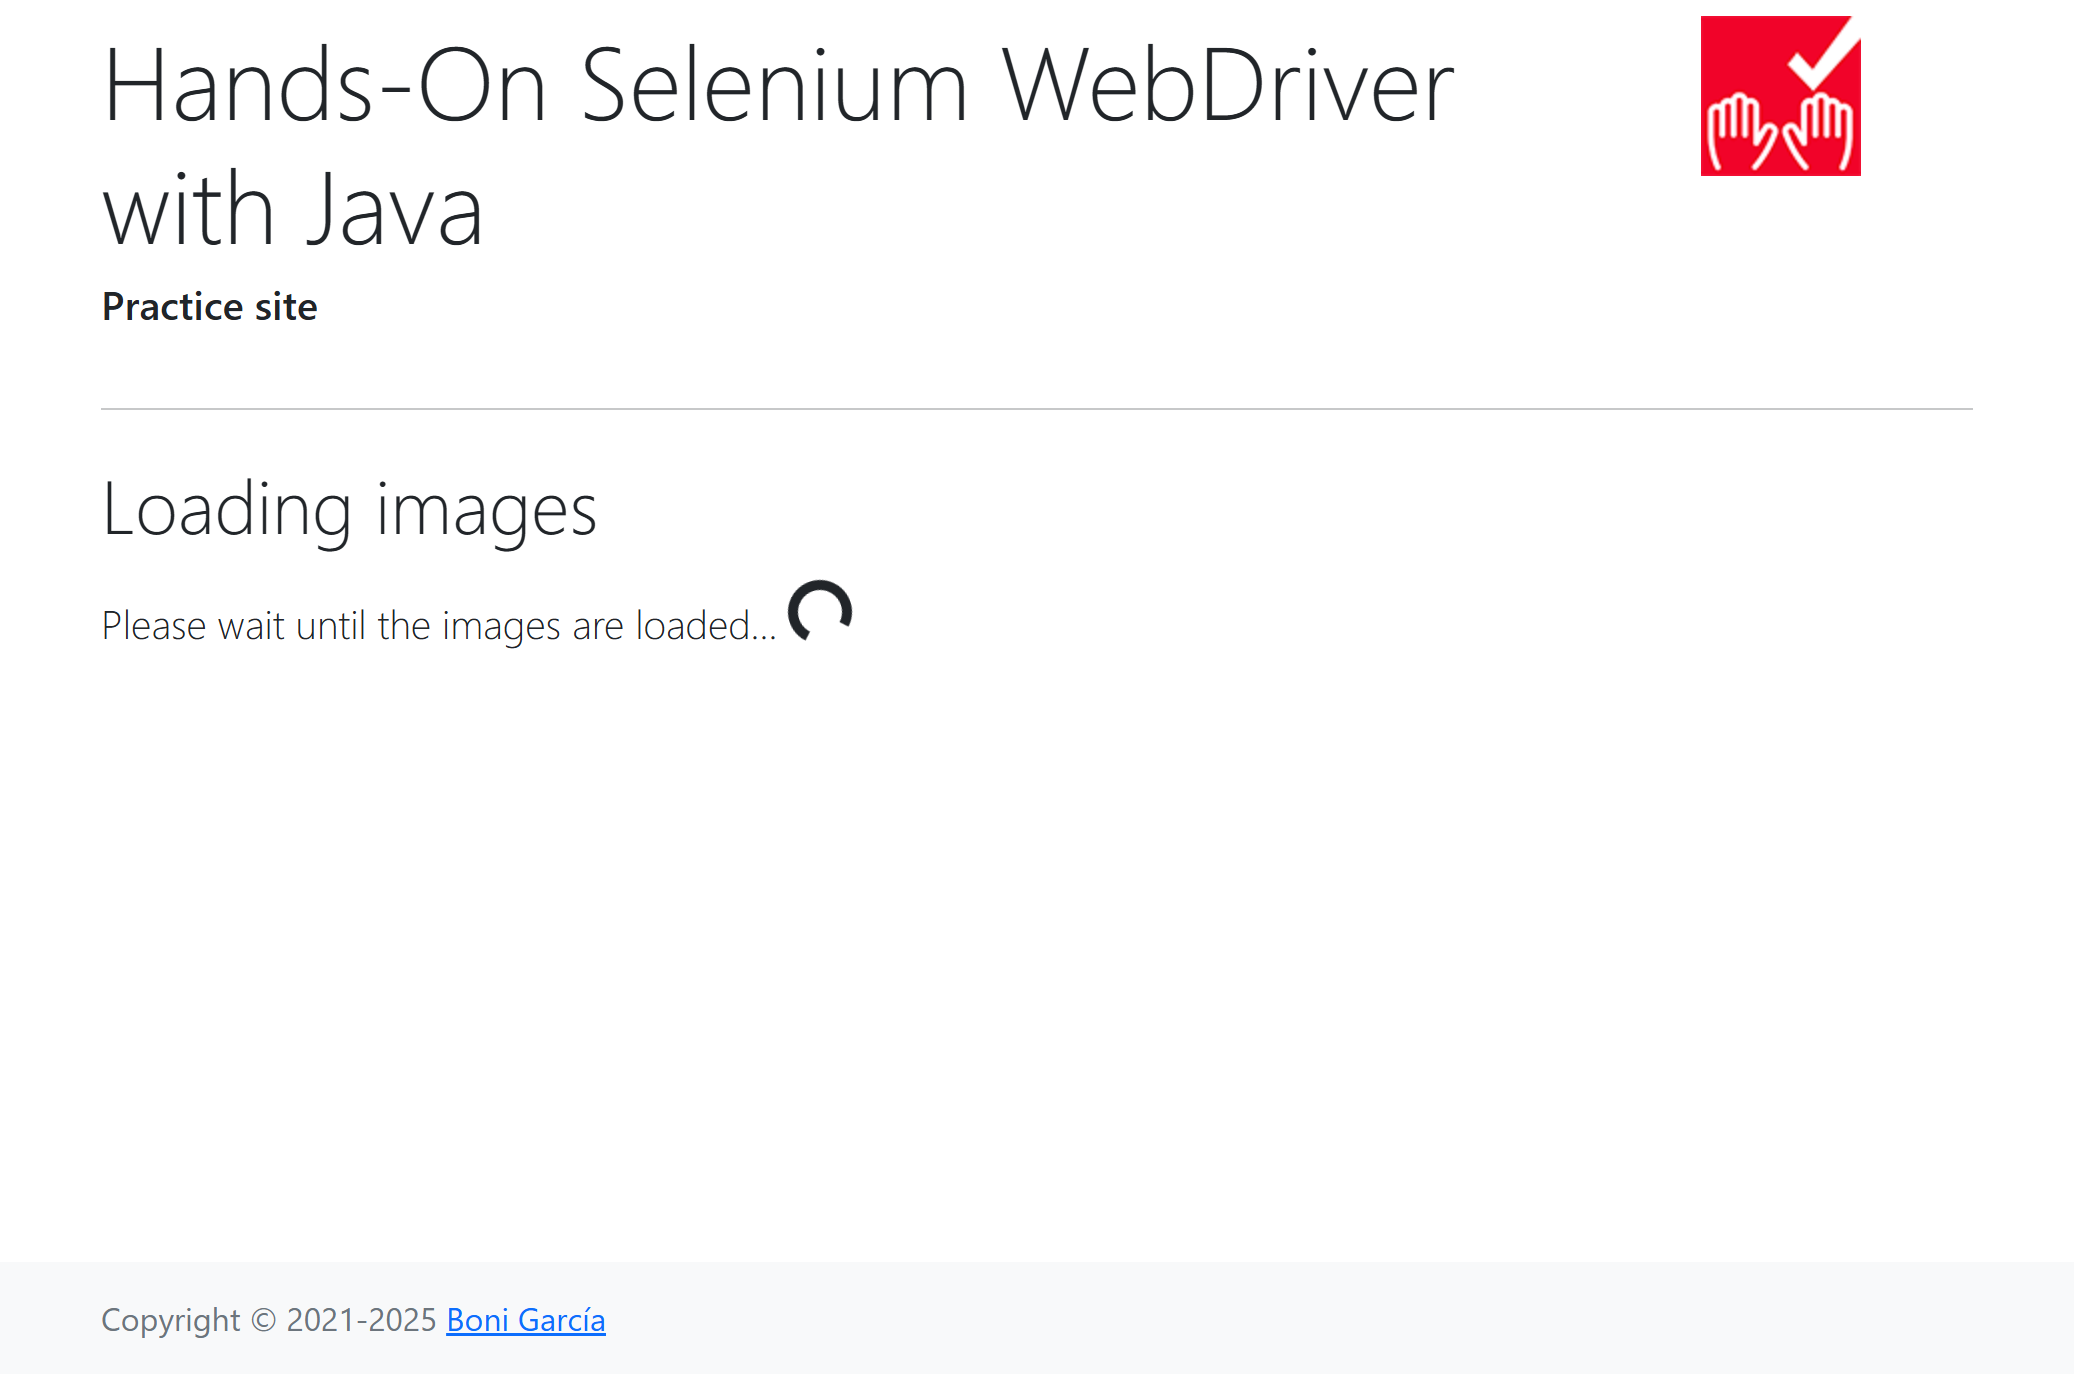
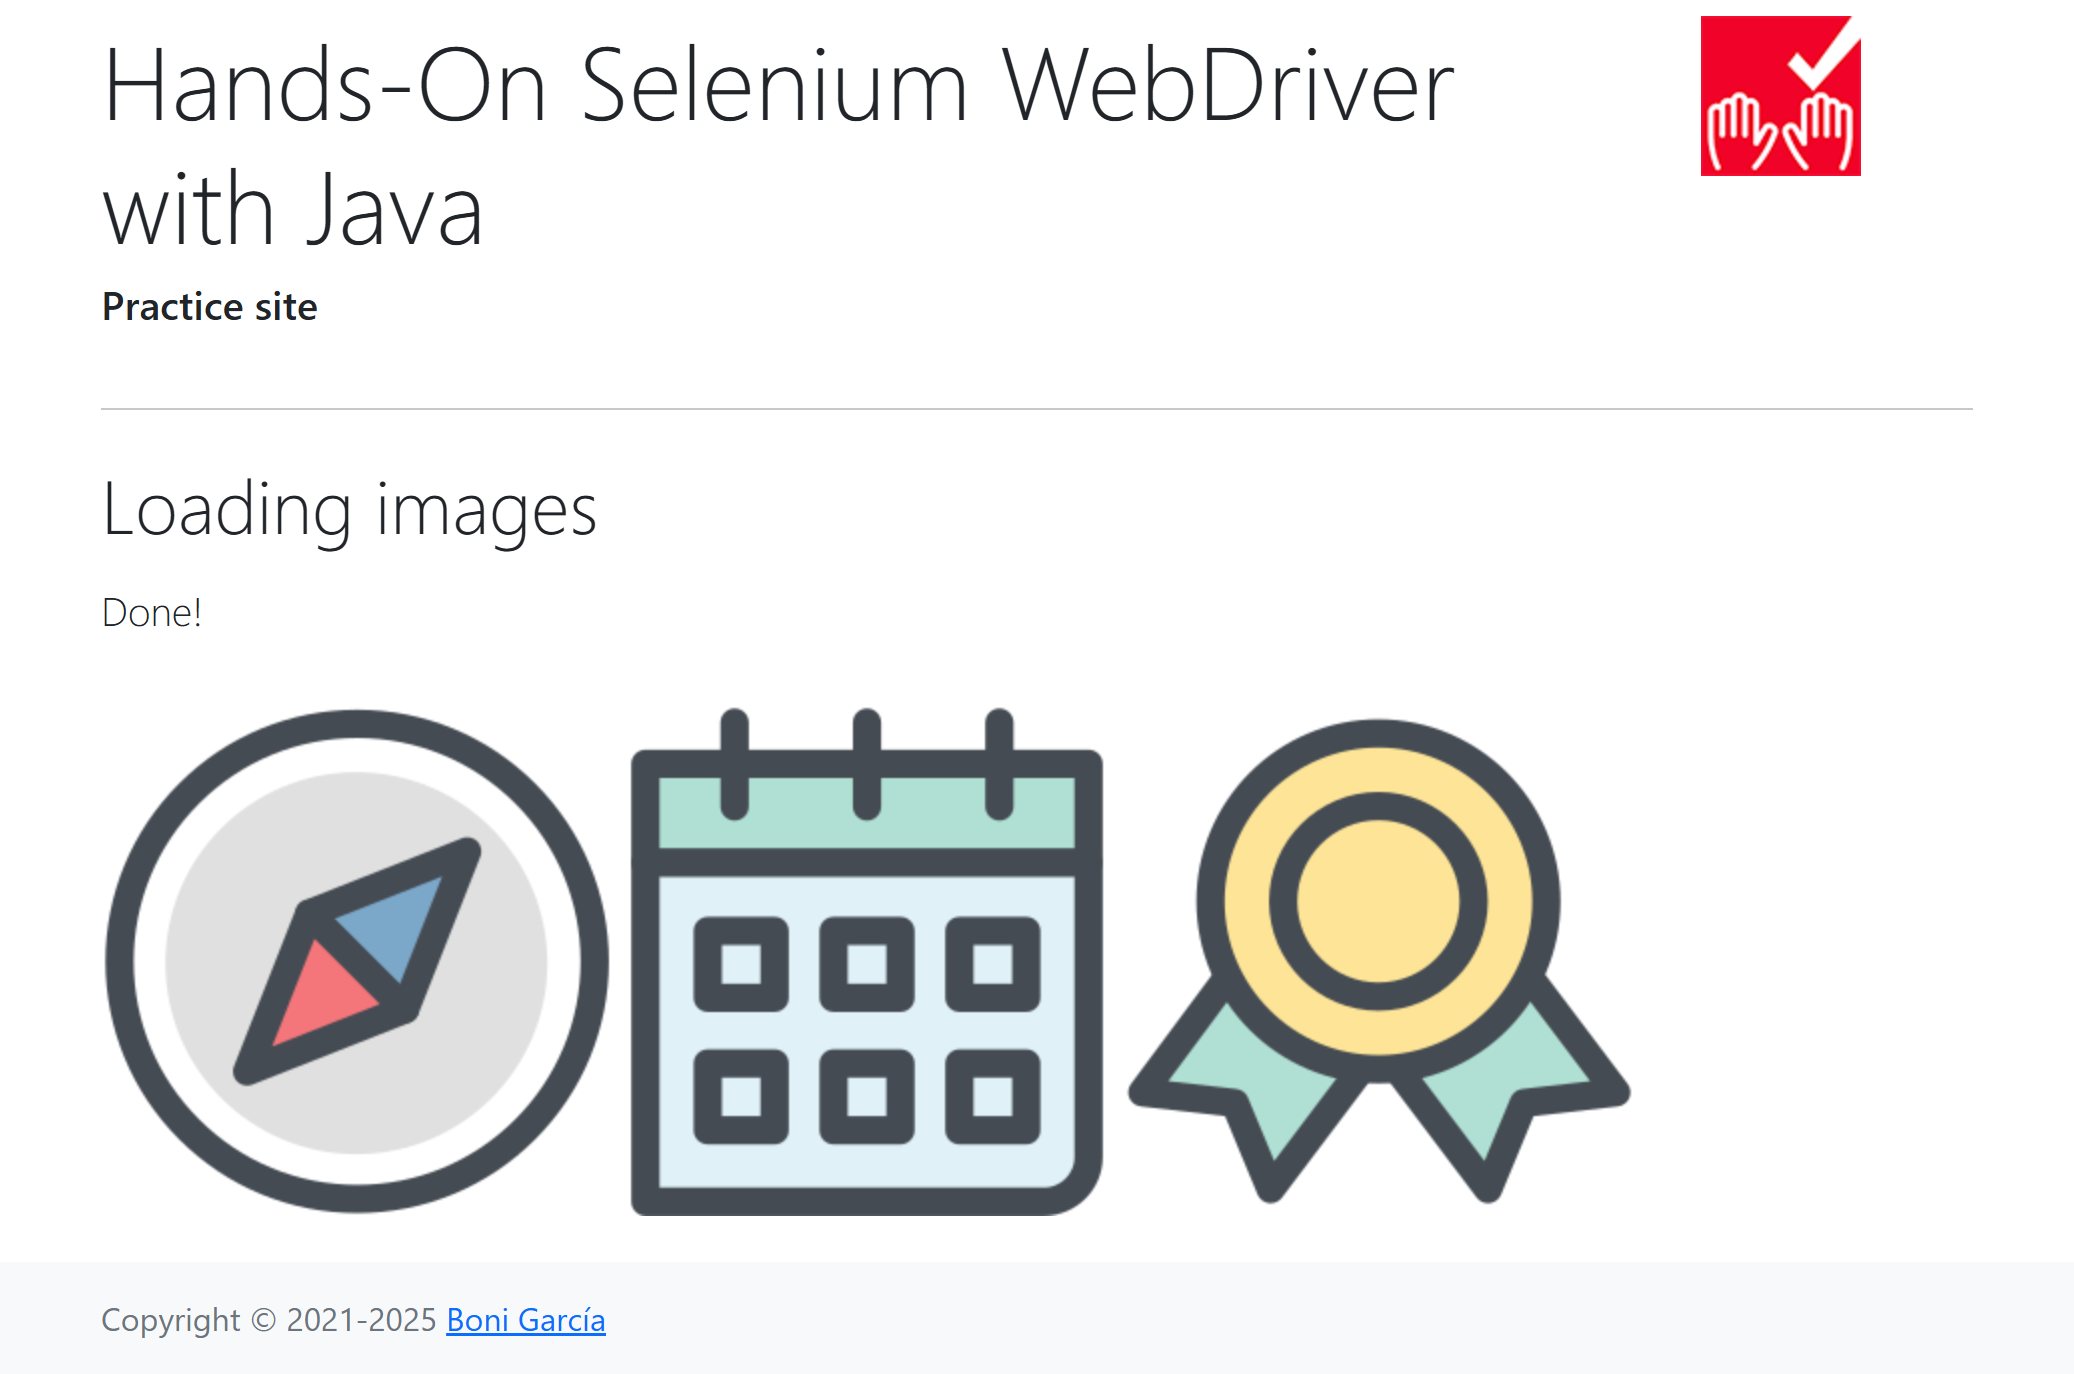
commit-m

diff --git a/06K_lesson/test_01_form.py b/06K_lesson/test_01_form.py
@@ -1,0 +1,40 @@
+from selenium import webdriver
+from selenium.webdriver.edge.service import Service as EdgeService
+from webdriver_manager.microsoft import EdgeChromiumDriverManager
+from selenium.webdriver.common.by import By
+from selenium.webdriver.support.ui import WebDriverWait
+from selenium.webdriver.support import expected_conditions as EC
+
+driver = webdriver.Edge(service=EdgeService(EdgeChromiumDriverManager().install()))
+
+driver.get("https://bonigarcia.dev/selenium-webdriver-java/data-types.html")
+
+driver.find_element(By.CSS_SELECTOR, "First-name").send_keys("Иван")
+driver.find_element(By.CSS_SELECTOR, "Last name").send_keys("Петров")
+driver.find_element(By.CSS_SELECTOR, "Address").send_keys("Ленина 55-3")
+driver.find_element(By.CSS_SELECTOR, "Email").send_keys("test@skypro.com")
+driver.find_element(By.CSS_SELECTOR, "Phone number").send_keys("+7985899998787")
+driver.find_element(By.CSS_SELECTOR, "Zip code").send_keys("")
+driver.find_element(By.CSS_SELECTOR, "City").send_keys("Москва")
+driver.find_element(By.CSS_SELECTOR, "Country").send_keys("Россия")
+driver.find_element(By.CSS_SELECTOR, "Job position").send_keys("QA")
+driver.find_element(By.CSS_SELECTOR, "Company").send_keys("SkyPro")
+
+submit_button = edge_driver.find_element(By.CSS_SELECTOR, "submit-button").click()
+
+wait = WebDriverWait(edge_driver, 10)
+wait.until(EC.presence_of_all_elements_located((By.CSS_SELECTOR, "form-control")))
+
+filled_fields = [
+        input_field for input_field in form_inputs
+        if input_field.get_attribute("name") != "zipCode"
+    ]
+
+zip_code_field = next(field for field in form_inputs if field.get_attribute("name") == "zipCode")
+assert "is-invalid" in zip_code_field.get_attribute("class"), "Поле ZIP code не подсветилось красным."
+
+
+for field in filled_fields:
+ assert "is-valid" in field.get_attribute("class"), f"Поле '{field.get_attribute('name')}' не подсветилось зеленым."
+
+driver.quit()

diff --git a/06_lesson/lesson06_task3.py b/06_lesson/lesson06_task3.py
@@ -6,13 +6,19 @@ from selenium.webdriver.support import expected_conditions as EC
 driver = webdriver.Chrome()
 waiter = WebDriverWait(driver, 120)
 driver.get(
-    'https://bonigarcia.dev/selenium-webdriver-java/loading-images.html'
+    "https://bonigarcia.dev/selenium-webdriver-java/loading-images.html"
     )
+
+WebDriverWait(driver, 120).until(lambda d: all(d.find_element(
+    By.ID, img_id).get_attribute("src")
+    for img_id in ["compass", "calendar", "award", "landscape"]))
 
 waiter.until(
-    EC.presence_of_all_elements_located((By.CSS_SELECTOR, "#image-container"))
+    EC.presence_of_all_elements_located((By.TAG_NAME, "img"))
     )
+image = driver.find_element(By.ID, "award")
+image_src = image.get_attribute("src")
+print(f"Атрибут src 3-й картинки: {image_src}")
 
 driver.save_screenshot('./java_.png')
-
 driver.quit()

diff --git a/06_lesson/lesson06_task1.py b/06_lesson/lesson06_task1.py
@@ -8,11 +8,12 @@ driver = webdriver.Chrome(
     )
 driver.implicitly_wait(20)
 
-driver.get('http://uitestingplayground.com/ajax')
+driver.get("http://uitestingplayground.com/ajax")
 
 driver.find_element(By.CSS_SELECTOR, "#ajaxButton").click()
 
 content = driver.find_element(By.CSS_SELECTOR, "#content")
 txt = content.find_element(By.CSS_SELECTOR, "#bg-success")
+print(txt)
 
 driver.quit()
